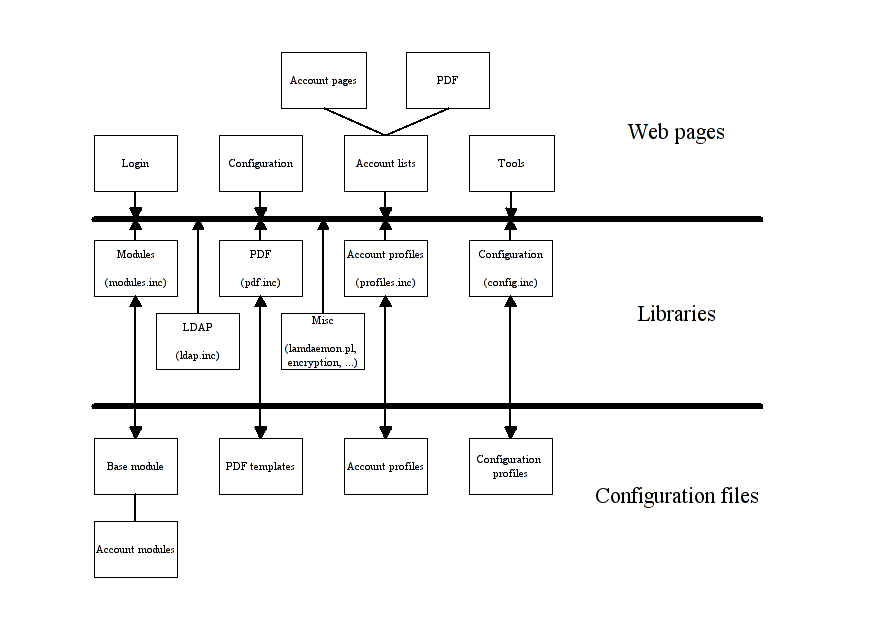
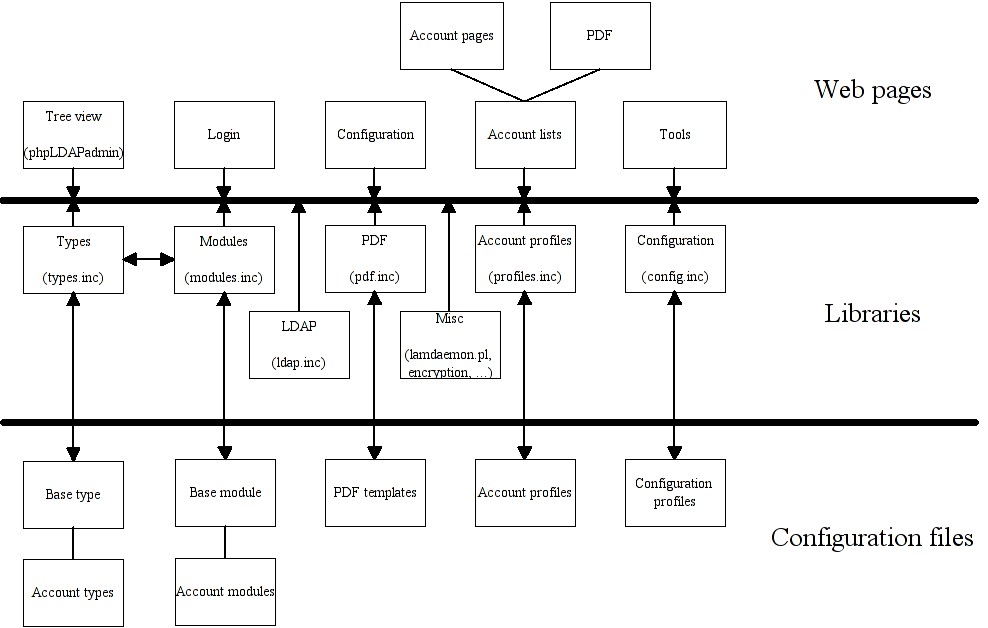
account types added

diff --git a/lam/docs/devel/account_types.htm b/lam/docs/devel/account_types.htm
@@ -1,0 +1,46 @@
+<!DOCTYPE html PUBLIC "-//W3C//DTD HTML 4.01 Transitional//EN">
+<html>
+<head>
+  <meta content="text/html; charset=ISO-8859-15"
+ http-equiv="content-type">
+  <title>Account types</title>
+  <link rel="stylesheet" type="text/css" href="style/layout.css">
+</head>
+<body>
+<h1 style="text-align: center;">Account types<br>
+</h1>
+<div style="text-align: center;"><img alt="base module"
+ src="images/lam_baseType.png"><br>
+</div>
+<div style="text-align: center;"><br>
+<div style="text-align: left;">The account types define what kind of
+accounts can be managed with LAM. If you want to create a new account
+module which does not fit in the existing classes of users, groups and
+hosts then you need your own account type.<br>
+<br>
+All account types are saved in <span style="font-weight: bold;">lib/types/</span>.<br>
+<br>
+Please take a look at the <a href="type_index.htm">type HowTo</a> for
+an example to write your own types.<br>
+The complete specification for the type interface can be found <a
+ href="types-specification.htm">here</a>.<br>
+<br>
+<h2>Superclass</h2>
+All <span style="font-weight: bold;">account types</span> should be
+subclasses of the <a href="base_type.htm">baseType</a>.<br>
+This reduces very much the code since not the complete type interface
+has
+to be implemented.<br>
+<br>
+<br>
+<h2>Type detection</h2>
+New types can simply be copied to <span style="font-weight: bold;">lib/types</span>.
+LAM will check what files are inside the directory and provide the user
+new types automatically.<br>
+There is no extra configuration file.<br>
+<br>
+<br>
+</div>
+</div>
+</body>
+</html>

diff --git a/lam/docs/devel/account_types_lib.htm b/lam/docs/devel/account_types_lib.htm
@@ -1,0 +1,42 @@
+<!DOCTYPE html PUBLIC "-//W3C//DTD HTML 4.01 Transitional//EN">
+<html>
+<head>
+  <meta content="text/html; charset=ISO-8859-15"
+ http-equiv="content-type">
+  <title>Account types (types.inc)</title>
+  <link rel="stylesheet" type="text/css" href="style/layout.css">
+</head>
+<body>
+<h1 style="text-align: center;">Account types (types.inc)<br>
+</h1>
+<br>
+<span style="font-style: italic;">Types.inc</span> is the interface to
+the account types. It provides information about the type alias names,
+descriptions and other things.<br>
+<br>
+<h2>Functions:</h2>
+<br>
+<h3>General functions:</h3>
+<span style="font-weight: bold;">getAlias:</span> This returns
+the alias name of a type. It is used to label buttons or fieldsets.<br>
+<br>
+<span style="font-weight: bold;">getDescription:</span> Returns a
+description for the account type.<br>
+<span style="font-weight: bold;"></span><br>
+<br>
+<h3>Functions for list views:</h3>
+<span style="font-weight: bold;">getListClassName:</span> Here you can
+specify your own class to handle the list view.&nbsp; This is needed to
+label the buttons in the list view.<br>
+<br>
+<span style="font-weight: bold;">getDefaultListAttributes:</span>
+Returns the default setting for the displayed list attributes. It is
+used as default for the LAM configuration.<br>
+<br>
+<span style="font-weight: bold;">getListAttributeDescriptions:</span>
+Returns a hash array which contains predefined, translated descriptions
+of LDAP attributes.<br>
+<br>
+<span style="font-weight: bold;"></span><br>
+</body>
+</html>

diff --git a/lam/docs/devel/index.htm b/lam/docs/devel/index.htm
@@ -11,8 +11,12 @@ These documents are supposed to give developers who want to modify LAM
 an overview of the codebase. It focuses mainly on what is done to
 generate the HTML output and the most important functions provided by
 the library files.<br>
+<br>
+<br>
 <img src="images/lam_overview.png" alt="overview" align="middle"
- border="0" height="620" width="877"><br>
+ border="0"><br>
+<br>
+<br>
 <br>
 <div style="text-align: left;">
 <table style="text-align: left; width: 100%;" border="0" cellpadding="2"
@@ -45,7 +49,8 @@ lists</a></li>
       <h2>Libraries:</h2>
       <ul>
         <li><a href="account_modules_lib.htm">Account modules
-(modules.inc)</a><br>
+(modules.inc)</a></li>
+        <li><a href="account_types_lib.htm">Account types (types.inc)</a><br>
         </li>
         <li><a href="pdf_libs.htm">PDF (pdf.inc, pdfstruct.inc)</a><br>
         </li>
@@ -74,9 +79,12 @@ browser</a><br>
       <td style="vertical-align: top; width: 33%;">
       <h2>Configuration files:</h2>
       <ul>
-        <li><a href="base_module.htm">Base module</a><br>
+        <li><a href="base_module.htm">Base module</a></li>
+        <li><a href="base_type.htm">Base type</a><br>
         </li>
         <li><a href="account_modules.htm">Account modules</a></li>
+        <li><a href="account_types.htm">Account types</a><br>
+        </li>
         <li><a href="pdf_profiles.htm">PDF templates</a></li>
         <li><a href="profile_files.htm">Account profiles</a></li>
         <li><a href="config_files.htm">Configuration profiles</a><br>

diff --git a/lam/docs/devel/base_type.htm b/lam/docs/devel/base_type.htm
@@ -1,0 +1,26 @@
+<!DOCTYPE html PUBLIC "-//W3C//DTD HTML 4.01 Transitional//EN">
+<html>
+<head>
+  <meta content="text/html; charset=ISO-8859-15"
+ http-equiv="content-type">
+  <title>Base type</title>
+  <link rel="stylesheet" type="text/css" href="style/layout.css">
+</head>
+<body>
+<h1 style="text-align: center;">Base type<br>
+</h1>
+<div style="text-align: center;"><img alt="base type"
+ src="images/lam_baseType.png"><br>
+</div>
+<div style="text-align: center;"><br>
+<div style="text-align: left;">The <span style="font-weight: bold;">baseType</span>
+is the parent class of all account types. <br>
+It implements all functions of the <a href="types-specification.htm">type
+interface</a>.<br>
+<br>
+However, you surely want to override most of the functions in your
+account type class.<br>
+</div>
+</div>
+</body>
+</html>

diff --git a/lam/docs/devel/account_modules_lib.htm b/lam/docs/devel/account_modules_lib.htm
@@ -21,7 +21,7 @@ in <span style="font-style: italic;">modules.inc</span>.<br>
 <br>
 <h3>General functions:</h3>
 <span style="font-weight: bold;">getModuleAlias:</span> This returns
-the alias name of a module. It is used label buttons or fieldsets.<br>
+the alias name of a module. It is used to label buttons or fieldsets.<br>
 <br>
 <span style="font-weight: bold;">parseHtml:</span> Converts the LAM
 meta HTML code to real HTML code.<br>

diff --git a/lam/docs/devel/account_modules.htm b/lam/docs/devel/account_modules.htm
@@ -39,7 +39,7 @@ to be implemented.<br>
 <h2>Module detection</h2>
 New modules can simply be copied to <span style="font-weight: bold;">lib/modules</span>.
 LAM will check what files are inside the directory and provide the user
-new modules automtically.<br>
+new modules automatically.<br>
 There is no extra configuration file.<br>
 <br>
 <br>
